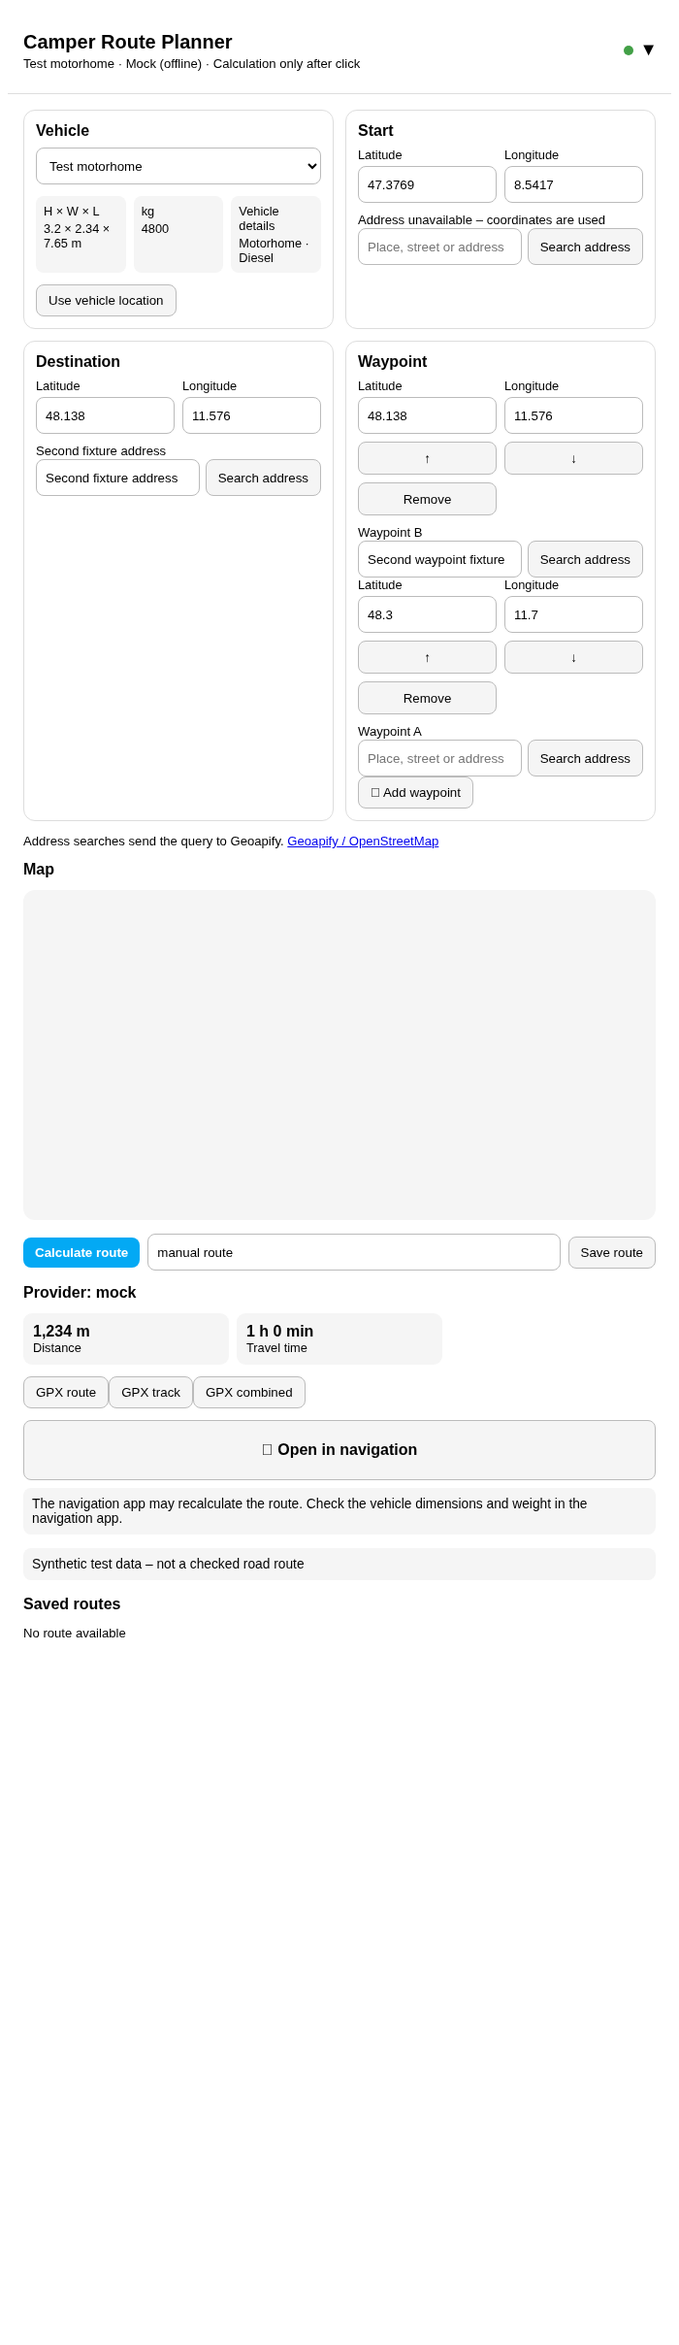
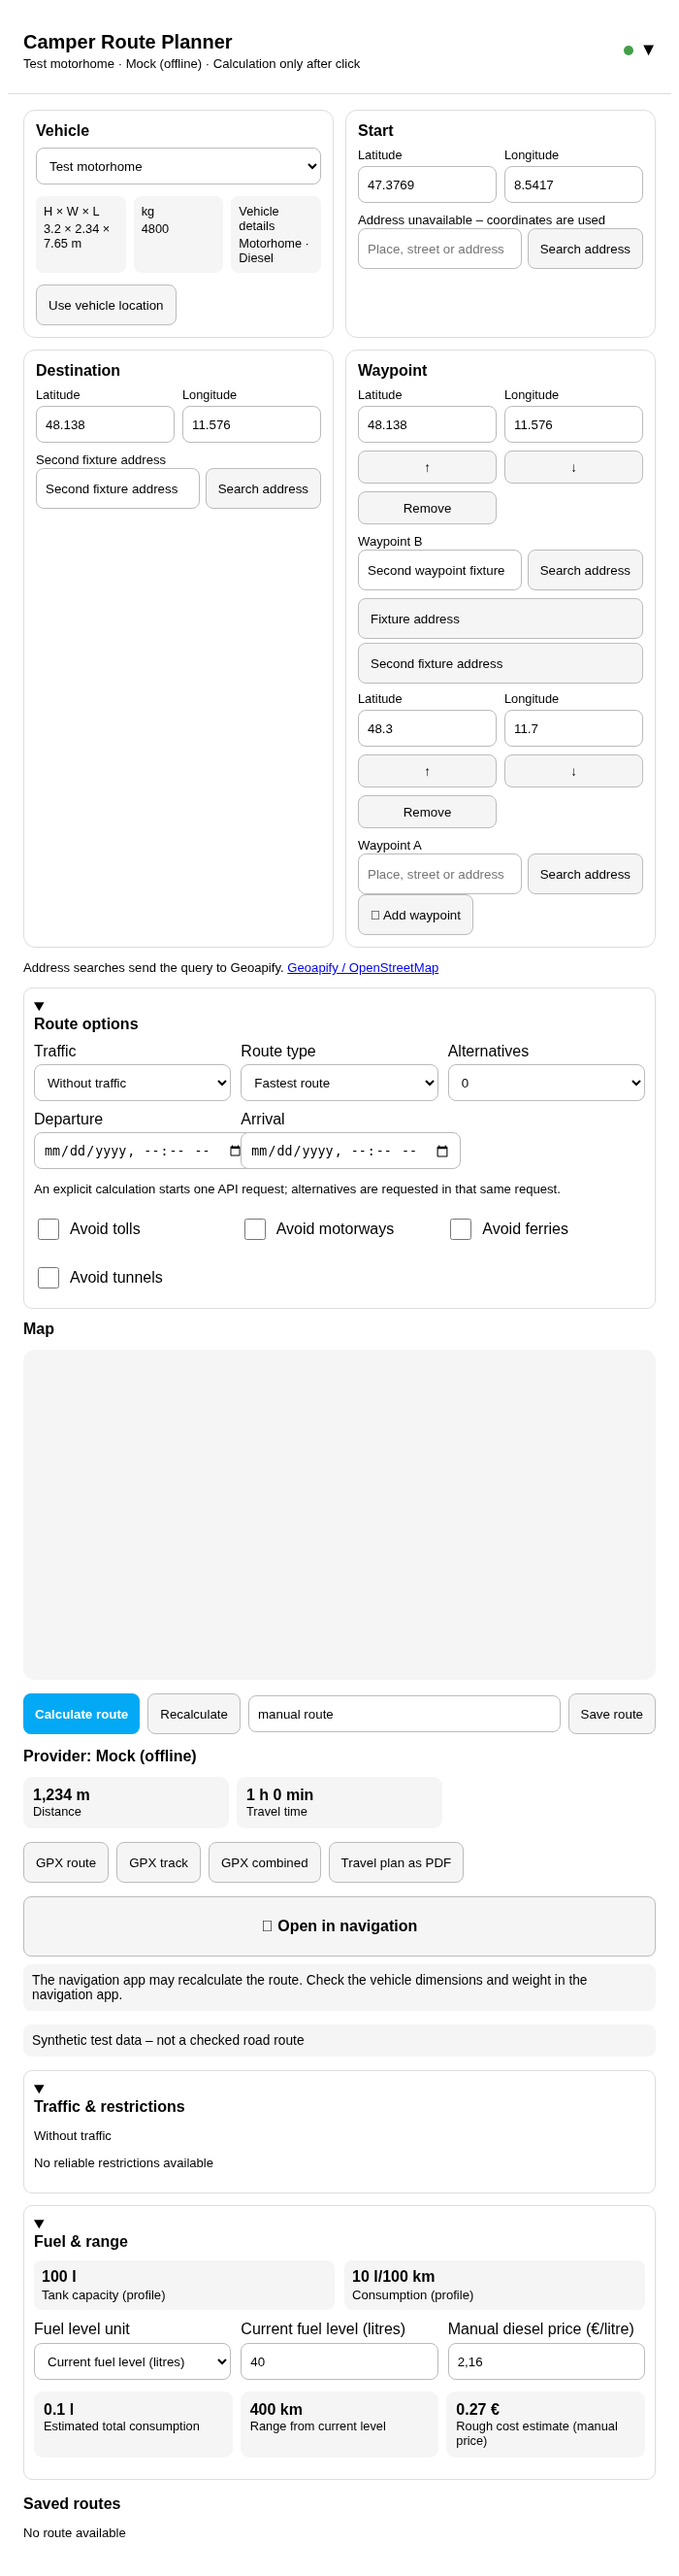
feat: localize border crossing display for beta.4

diff --git a/custom_components/camper_route_planner/frontend/camper-route-planner-card.js b/custom_components/camper_route_planner/frontend/camper-route-planner-card.js
@@ -1,4 +1,4 @@
-/* Camper Route Planner Card v0.1.3-beta.3; reproducible local bundle */
+/* Camper Route Planner Card v0.1.3-beta.4; reproducible local bundle */
 (() => {
   var __create = Object.create;
   var __defProp = Object.defineProperty;
@@ -14134,6 +14134,10 @@
   TRANSLATIONS.en.tollSourceApiV2 = "Source: NaKordoni API v2 \u2013 separate toll estimate, not binding.";
   TRANSLATIONS.en.tollSourceApiV3 = "Source: NaKordoni API v3";
   TRANSLATIONS.en.tollV3IncompleteNote = "The route was calculated with API v3; its toll data is incomplete. An optional v2 estimate remains separate and may differ.";
+  TRANSLATIONS.de.borderConfirmed = "Konkreter Grenz\xFCbergang erkannt";
+  TRANSLATIONS.de.borderDetected = "Grenz\xFCbertritt erkannt";
+  TRANSLATIONS.en.borderConfirmed = "Specific border crossing identified";
+  TRANSLATIONS.en.borderDetected = "Border crossing detected";
   function languageOf(hass) {
     const language = hass?.locale?.language || hass?.language || "en";
     return String(language).toLowerCase().startsWith("de") ? "de" : "en";
@@ -31189,19 +31193,20 @@ svg.leaflet-image-layer.leaflet-interactive path {
     } catch (_error) {
     }
   }
-  function renderBorderCrossings(result, translate2) {
+  function renderBorderCrossings(result, translate2, language = "en") {
     const crossings = result?.metadata?.border_crossings;
     if (!Array.isArray(crossings)) return "";
     if (!crossings.length && result?.metadata?.border_state === "unordered_international") return `<section class="route-details border-crossings"><h3>${translate2("borderCrossings")}</h3><p class="subtle">${translate2("borderInternationalAmbiguous")}</p></section>`;
     const rows = crossings.length ? crossings.map((crossing) => {
-      const direction = [crossing.from_country, crossing.to_country].filter(Boolean).join(" \u2192 ") || "\u2014";
+      const direction = [crossing.from_country, crossing.to_country].filter(Boolean).map((country) => tollCountryName(country, language)).join(" \u2192 ") || translate2("unknown");
       const wait = crossing.wait_min == null ? translate2("borderNoWait") : `${Math.round(Number(crossing.wait_min))} min`;
       const side = Array.isArray(crossing.wait_sides) ? crossing.wait_sides[0] : null;
       const basis = side?.basis === "forecast" ? translate2("borderForecast") : side?.basis === "live" ? translate2("borderLive") : null;
-      const source = crossing.source_url ? `<a href="${escapeHtml(crossing.source_url)}" target="_blank" rel="noreferrer">${translate2("dataByNakordoni")}</a>` : translate2("dataByNakordoni");
-      const quality = side?.data_quality === "low" ? translate2("borderEstimate") : side?.data_quality || basis || "\u2014";
-      const inferred = crossing.inferred ? `<small>${translate2("borderInferred")}</small>` : "";
-      return `<article class="border-crossing"><b>${escapeHtml(direction)}</b>${crossing.name ? `<div>${translate2("borderName")}: ${escapeHtml(crossing.name)}</div>` : ""}<div><span>${translate2("borderWait")}: ${escapeHtml(wait)}</span>${basis ? ` \xB7 ${escapeHtml(basis)}` : ""}</div><small>${translate2("borderDataAt")}: ${escapeHtml(crossing.wait_at || "\u2014")} \xB7 ${translate2("borderQuality")}: ${escapeHtml(quality)} \xB7 ${translate2("borderSource")}: ${source}</small>${crossing.wait_notes?.length ? `<small>${escapeHtml(crossing.wait_notes.join(" "))}</small>` : ""}${inferred}</article>`;
+      const source = crossing.source_url ? `<a href="${escapeHtml(crossing.source_url)}" target="_blank" rel="noreferrer">${translate2("dataByNakordoni")}</a>` : "";
+      const quality = side?.data_quality === "low" ? translate2("borderEstimate") : side?.data_quality || basis || "";
+      const status = crossing.inferred || crossing.status === "country_sequence" ? translate2("borderInferred") : crossing.name || crossing.status === "confirmed" ? translate2("borderConfirmed") : translate2("borderDetected");
+      const detailFields = [crossing.wait_at ? `${translate2("borderDataAt")}: ${escapeHtml(crossing.wait_at)}` : "", quality ? `${translate2("borderQuality")}: ${escapeHtml(quality)}` : "", source ? `${translate2("borderSource")}: ${source}` : ""].filter(Boolean);
+      return `<article class="border-crossing"><b>${escapeHtml(direction)}</b><small>${escapeHtml(status)}</small>${crossing.name ? `<div>${translate2("borderName")}: ${escapeHtml(crossing.name)}</div>` : ""}<div><span>${translate2("borderWait")}: ${escapeHtml(wait)}</span>${basis ? ` \xB7 ${escapeHtml(basis)}` : ""}</div>${detailFields.length ? `<small>${detailFields.join(" \xB7 ")}</small>` : ""}${crossing.wait_notes?.length ? `<small>${escapeHtml(crossing.wait_notes.join(" "))}</small>` : ""}</article>`;
     }).join("") : `<p class="subtle">${translate2(result?.metadata?.border_state === "unordered_international" ? "borderInternationalAmbiguous" : "noBorderCrossings")}</p>`;
     return `<section class="route-details border-crossings"><h3>${translate2("borderCrossings")}</h3>${rows}</section>`;
   }
@@ -31983,7 +31988,7 @@ svg.leaflet-image-layer.leaflet-interactive path {
       if (result?.provider === "nakordoni_motorhome") {
         const resultPanel = this.shadowRoot.querySelector(".result");
         resultPanel?.insertAdjacentHTML("afterbegin", `<div class="notice beta-notice"><b>${translate2("motorhomeBeta")}</b><br>${translate2("motorhomeWarning")}<br><a href="${escapeHtml(result.attribution_url || "https://nakordoni.eu")}" target="_blank" rel="noreferrer">${translate2("dataByNakordoni")}</a></div>`);
-        resultPanel?.insertAdjacentHTML("beforeend", `${renderBorderCrossings(result, translate2)}${renderTollDetails(result, translate2, language)}`);
+        resultPanel?.insertAdjacentHTML("beforeend", `${renderBorderCrossings(result, translate2, language)}${renderTollDetails(result, translate2, language)}`);
         if (result.metadata?.api_version === "v3" && result.metadata?.tolls?.complete === false && !result.metadata?.toll_estimate_v2) {
           const button = document.createElement("button");
           button.type = "button";

diff --git a/frontend/dist/camper-route-planner-card.js b/frontend/dist/camper-route-planner-card.js
@@ -1,4 +1,4 @@
-/* Camper Route Planner Card v0.1.3-beta.3; reproducible local bundle */
+/* Camper Route Planner Card v0.1.3-beta.4; reproducible local bundle */
 (() => {
   var __create = Object.create;
   var __defProp = Object.defineProperty;
@@ -14134,6 +14134,10 @@
   TRANSLATIONS.en.tollSourceApiV2 = "Source: NaKordoni API v2 \u2013 separate toll estimate, not binding.";
   TRANSLATIONS.en.tollSourceApiV3 = "Source: NaKordoni API v3";
   TRANSLATIONS.en.tollV3IncompleteNote = "The route was calculated with API v3; its toll data is incomplete. An optional v2 estimate remains separate and may differ.";
+  TRANSLATIONS.de.borderConfirmed = "Konkreter Grenz\xFCbergang erkannt";
+  TRANSLATIONS.de.borderDetected = "Grenz\xFCbertritt erkannt";
+  TRANSLATIONS.en.borderConfirmed = "Specific border crossing identified";
+  TRANSLATIONS.en.borderDetected = "Border crossing detected";
   function languageOf(hass) {
     const language = hass?.locale?.language || hass?.language || "en";
     return String(language).toLowerCase().startsWith("de") ? "de" : "en";
@@ -31189,19 +31193,20 @@ svg.leaflet-image-layer.leaflet-interactive path {
     } catch (_error) {
     }
   }
-  function renderBorderCrossings(result, translate2) {
+  function renderBorderCrossings(result, translate2, language = "en") {
     const crossings = result?.metadata?.border_crossings;
     if (!Array.isArray(crossings)) return "";
     if (!crossings.length && result?.metadata?.border_state === "unordered_international") return `<section class="route-details border-crossings"><h3>${translate2("borderCrossings")}</h3><p class="subtle">${translate2("borderInternationalAmbiguous")}</p></section>`;
     const rows = crossings.length ? crossings.map((crossing) => {
-      const direction = [crossing.from_country, crossing.to_country].filter(Boolean).join(" \u2192 ") || "\u2014";
+      const direction = [crossing.from_country, crossing.to_country].filter(Boolean).map((country) => tollCountryName(country, language)).join(" \u2192 ") || translate2("unknown");
       const wait = crossing.wait_min == null ? translate2("borderNoWait") : `${Math.round(Number(crossing.wait_min))} min`;
       const side = Array.isArray(crossing.wait_sides) ? crossing.wait_sides[0] : null;
       const basis = side?.basis === "forecast" ? translate2("borderForecast") : side?.basis === "live" ? translate2("borderLive") : null;
-      const source = crossing.source_url ? `<a href="${escapeHtml(crossing.source_url)}" target="_blank" rel="noreferrer">${translate2("dataByNakordoni")}</a>` : translate2("dataByNakordoni");
-      const quality = side?.data_quality === "low" ? translate2("borderEstimate") : side?.data_quality || basis || "\u2014";
-      const inferred = crossing.inferred ? `<small>${translate2("borderInferred")}</small>` : "";
-      return `<article class="border-crossing"><b>${escapeHtml(direction)}</b>${crossing.name ? `<div>${translate2("borderName")}: ${escapeHtml(crossing.name)}</div>` : ""}<div><span>${translate2("borderWait")}: ${escapeHtml(wait)}</span>${basis ? ` \xB7 ${escapeHtml(basis)}` : ""}</div><small>${translate2("borderDataAt")}: ${escapeHtml(crossing.wait_at || "\u2014")} \xB7 ${translate2("borderQuality")}: ${escapeHtml(quality)} \xB7 ${translate2("borderSource")}: ${source}</small>${crossing.wait_notes?.length ? `<small>${escapeHtml(crossing.wait_notes.join(" "))}</small>` : ""}${inferred}</article>`;
+      const source = crossing.source_url ? `<a href="${escapeHtml(crossing.source_url)}" target="_blank" rel="noreferrer">${translate2("dataByNakordoni")}</a>` : "";
+      const quality = side?.data_quality === "low" ? translate2("borderEstimate") : side?.data_quality || basis || "";
+      const status = crossing.inferred || crossing.status === "country_sequence" ? translate2("borderInferred") : crossing.name || crossing.status === "confirmed" ? translate2("borderConfirmed") : translate2("borderDetected");
+      const detailFields = [crossing.wait_at ? `${translate2("borderDataAt")}: ${escapeHtml(crossing.wait_at)}` : "", quality ? `${translate2("borderQuality")}: ${escapeHtml(quality)}` : "", source ? `${translate2("borderSource")}: ${source}` : ""].filter(Boolean);
+      return `<article class="border-crossing"><b>${escapeHtml(direction)}</b><small>${escapeHtml(status)}</small>${crossing.name ? `<div>${translate2("borderName")}: ${escapeHtml(crossing.name)}</div>` : ""}<div><span>${translate2("borderWait")}: ${escapeHtml(wait)}</span>${basis ? ` \xB7 ${escapeHtml(basis)}` : ""}</div>${detailFields.length ? `<small>${detailFields.join(" \xB7 ")}</small>` : ""}${crossing.wait_notes?.length ? `<small>${escapeHtml(crossing.wait_notes.join(" "))}</small>` : ""}</article>`;
     }).join("") : `<p class="subtle">${translate2(result?.metadata?.border_state === "unordered_international" ? "borderInternationalAmbiguous" : "noBorderCrossings")}</p>`;
     return `<section class="route-details border-crossings"><h3>${translate2("borderCrossings")}</h3>${rows}</section>`;
   }
@@ -31983,7 +31988,7 @@ svg.leaflet-image-layer.leaflet-interactive path {
       if (result?.provider === "nakordoni_motorhome") {
         const resultPanel = this.shadowRoot.querySelector(".result");
         resultPanel?.insertAdjacentHTML("afterbegin", `<div class="notice beta-notice"><b>${translate2("motorhomeBeta")}</b><br>${translate2("motorhomeWarning")}<br><a href="${escapeHtml(result.attribution_url || "https://nakordoni.eu")}" target="_blank" rel="noreferrer">${translate2("dataByNakordoni")}</a></div>`);
-        resultPanel?.insertAdjacentHTML("beforeend", `${renderBorderCrossings(result, translate2)}${renderTollDetails(result, translate2, language)}`);
+        resultPanel?.insertAdjacentHTML("beforeend", `${renderBorderCrossings(result, translate2, language)}${renderTollDetails(result, translate2, language)}`);
         if (result.metadata?.api_version === "v3" && result.metadata?.tolls?.complete === false && !result.metadata?.toll_estimate_v2) {
           const button = document.createElement("button");
           button.type = "button";

diff --git a/frontend/src/camper-route-planner-card.js b/frontend/src/camper-route-planner-card.js
@@ -31,19 +31,20 @@ function writeFuelValues(entryId, profileId, values) {
 }
 
 
-function renderBorderCrossings(result, translate) {
+function renderBorderCrossings(result, translate, language = "en") {
   const crossings = result?.metadata?.border_crossings;
   if (!Array.isArray(crossings)) return "";
   if (!crossings.length && result?.metadata?.border_state === "unordered_international") return `<section class="route-details border-crossings"><h3>${translate("borderCrossings")}</h3><p class="subtle">${translate("borderInternationalAmbiguous")}</p></section>`;
   const rows = crossings.length ? crossings.map((crossing) => {
-    const direction = [crossing.from_country, crossing.to_country].filter(Boolean).join(" → ") || "—";
+    const direction = [crossing.from_country, crossing.to_country].filter(Boolean).map((country) => tollCountryName(country, language)).join(" → ") || translate("unknown");
     const wait = crossing.wait_min == null ? translate("borderNoWait") : `${Math.round(Number(crossing.wait_min))} min`;
     const side = Array.isArray(crossing.wait_sides) ? crossing.wait_sides[0] : null;
     const basis = side?.basis === "forecast" ? translate("borderForecast") : side?.basis === "live" ? translate("borderLive") : null;
-    const source = crossing.source_url ? `<a href="${escapeHtml(crossing.source_url)}" target="_blank" rel="noreferrer">${translate("dataByNakordoni")}</a>` : translate("dataByNakordoni");
-    const quality = side?.data_quality === "low" ? translate("borderEstimate") : (side?.data_quality || basis || "—");
-    const inferred = crossing.inferred ? `<small>${translate("borderInferred")}</small>` : "";
-    return `<article class="border-crossing"><b>${escapeHtml(direction)}</b>${crossing.name ? `<div>${translate("borderName")}: ${escapeHtml(crossing.name)}</div>` : ""}<div><span>${translate("borderWait")}: ${escapeHtml(wait)}</span>${basis ? ` · ${escapeHtml(basis)}` : ""}</div><small>${translate("borderDataAt")}: ${escapeHtml(crossing.wait_at || "—")} · ${translate("borderQuality")}: ${escapeHtml(quality)} · ${translate("borderSource")}: ${source}</small>${crossing.wait_notes?.length ? `<small>${escapeHtml(crossing.wait_notes.join(" "))}</small>` : ""}${inferred}</article>`;
+    const source = crossing.source_url ? `<a href="${escapeHtml(crossing.source_url)}" target="_blank" rel="noreferrer">${translate("dataByNakordoni")}</a>` : "";
+    const quality = side?.data_quality === "low" ? translate("borderEstimate") : (side?.data_quality || basis || "");
+    const status = crossing.inferred || crossing.status === "country_sequence" ? translate("borderInferred") : crossing.name || crossing.status === "confirmed" ? translate("borderConfirmed") : translate("borderDetected");
+    const detailFields = [crossing.wait_at ? `${translate("borderDataAt")}: ${escapeHtml(crossing.wait_at)}` : "", quality ? `${translate("borderQuality")}: ${escapeHtml(quality)}` : "", source ? `${translate("borderSource")}: ${source}` : ""].filter(Boolean);
+    return `<article class="border-crossing"><b>${escapeHtml(direction)}</b><small>${escapeHtml(status)}</small>${crossing.name ? `<div>${translate("borderName")}: ${escapeHtml(crossing.name)}</div>` : ""}<div><span>${translate("borderWait")}: ${escapeHtml(wait)}</span>${basis ? ` · ${escapeHtml(basis)}` : ""}</div>${detailFields.length ? `<small>${detailFields.join(" · ")}</small>` : ""}${crossing.wait_notes?.length ? `<small>${escapeHtml(crossing.wait_notes.join(" "))}</small>` : ""}</article>`;
   }).join("") : `<p class="subtle">${translate(result?.metadata?.border_state === "unordered_international" ? "borderInternationalAmbiguous" : "noBorderCrossings")}</p>`;
   return `<section class="route-details border-crossings"><h3>${translate("borderCrossings")}</h3>${rows}</section>`;
 }
@@ -732,7 +733,7 @@ export class CamperRoutePlannerCard extends HTMLElement {
     if (result?.provider === "nakordoni_motorhome") {
       const resultPanel = this.shadowRoot.querySelector(".result");
       resultPanel?.insertAdjacentHTML("afterbegin", `<div class="notice beta-notice"><b>${translate("motorhomeBeta")}</b><br>${translate("motorhomeWarning")}<br><a href="${escapeHtml(result.attribution_url || "https://nakordoni.eu")}" target="_blank" rel="noreferrer">${translate("dataByNakordoni")}</a></div>`);
-      resultPanel?.insertAdjacentHTML("beforeend", `${renderBorderCrossings(result, translate)}${renderTollDetails(result, translate, language)}`);
+      resultPanel?.insertAdjacentHTML("beforeend", `${renderBorderCrossings(result, translate, language)}${renderTollDetails(result, translate, language)}`);
       if (result.metadata?.api_version === "v3" && result.metadata?.tolls?.complete === false && !result.metadata?.toll_estimate_v2) {
         const button = document.createElement("button");
         button.type = "button";

diff --git a/frontend/src/localization.js b/frontend/src/localization.js
@@ -45,6 +45,10 @@ TRANSLATIONS.en.providerNetworkAverage = "Average network price; the actual sect
 TRANSLATIONS.en.tollSourceApiV2 = "Source: NaKordoni API v2 – separate toll estimate, not binding.";
 TRANSLATIONS.en.tollSourceApiV3 = "Source: NaKordoni API v3";
 TRANSLATIONS.en.tollV3IncompleteNote = "The route was calculated with API v3; its toll data is incomplete. An optional v2 estimate remains separate and may differ.";
+TRANSLATIONS.de.borderConfirmed = "Konkreter Grenzübergang erkannt";
+TRANSLATIONS.de.borderDetected = "Grenzübertritt erkannt";
+TRANSLATIONS.en.borderConfirmed = "Specific border crossing identified";
+TRANSLATIONS.en.borderDetected = "Border crossing detected";
 
 export function languageOf(hass) {
   const language = hass?.locale?.language || hass?.language || "en";

diff --git a/tests/test_phase2c_ha.py b/tests/test_phase2c_ha.py
@@ -157,7 +157,7 @@ async def test_frontend_static_path_resource_and_reload_cleanup(
     response = await client.get(FRONTEND_URL)
     assert response.status == 200
     body = await response.text()
-    assert "Camper Route Planner Card v0.1.3-beta.3" in body
+    assert "Camper Route Planner Card v0.1.3-beta.4" in body
     assert 'customElements.define("camper-route-planner-card"' in body
     assert 'return { entry_id: "" }' in body
     assert 'card.type === "camper-route-planner-card"' in body
@@ -180,7 +180,7 @@ async def test_frontend_static_path_resource_and_reload_cleanup(
     assert sum(item["url"] == FRONTEND_RESOURCE_URL for item in resources.async_items()) == 1
     response = await client.get(FRONTEND_URL)
     assert response.status == 200
-    assert "Camper Route Planner Card v0.1.3-beta.3" in await response.text()
+    assert "Camper Route Planner Card v0.1.3-beta.4" in await response.text()
 
 
 @pytest.mark.asyncio

diff --git a/custom_components/camper_route_planner/const.py b/custom_components/camper_route_planner/const.py
@@ -6,7 +6,7 @@ from typing import Final
 
 DOMAIN: Final = "camper_route_planner"
 NAME: Final = "Camper Route Planner"
-VERSION: Final = "0.1.3-beta.3"
+VERSION: Final = "0.1.3-beta.4"
 
 CONF_PROVIDER: Final = "provider"
 CONF_API_KEY: Final = "api_key"

diff --git a/docs/releases/v0.1.3-beta.4.md b/docs/releases/v0.1.3-beta.4.md
@@ -1,0 +1,44 @@
+# Camper Route Planner v0.1.3-beta.4
+
+## Deutsch
+
+Beta.4 verbessert die Darstellung von Grenzübergängen:
+
+- ISO-Ländercodes werden in der Oberfläche lokalisiert ausgeschrieben.
+- Erkannte Länderübergänge und konkrete, vom Provider gelieferte Übergänge
+  werden getrennt gekennzeichnet.
+- Fehlende Wartezeiten werden als „Keine aktuellen Wartezeitdaten verfügbar“
+  angezeigt.
+- Leere Datenstand-, Qualitäts- und Quellenfelder werden nicht mehr als
+  Platzhalter dargestellt.
+- Providerquellen werden nur bei tatsächlich vorhandener Quelle verlinkt.
+- Interne ISO-Codes und Providerantworten bleiben unverändert.
+
+Der deutsche Geschwindigkeitstest für ein 4,8-t-Wohnmobil ohne Anhänger wurde
+als manueller Praxistest vorbereitet, aber nicht ohne autorisierten Zugriff
+ausgeführt. Es wurde keine ETA künstlich korrigiert.
+
+Die bestehende native HA-Diagnose, die v2-/v3-Trennung, Mautdaten und
+gespeicherte Routen bleiben unverändert. Stable `v0.1.2` bleibt die empfohlene
+Produktivversion.
+
+## English
+
+Beta.4 improves border-crossing presentation:
+
+- ISO country codes are rendered as localized country names.
+- Detected country transitions and concrete provider-returned crossings are
+  labelled separately.
+- Missing wait times are shown as “No current wait-time data available”.
+- Empty timestamp, quality, and source fields are omitted instead of rendered
+  as placeholders.
+- Provider sources are linked only when an actual source is present.
+- Internal ISO codes and provider responses remain unchanged.
+
+The German speed test for a 4.8-tonne motorhome without a trailer was prepared
+as a manual practical test but was not executed without authorized access. No
+ETA correction was applied.
+
+The existing native HA diagnostics, v2/v3 separation, toll data, and saved
+routes remain unchanged. Stable `v0.1.2` remains the recommended production
+version.

diff --git a/README.en.md b/README.en.md
@@ -15,7 +15,9 @@ profiles, an interactive map, saved routes, and GPX export.
 >
 > Stable `v0.1.2` contains the verified Beta.3–Beta.5 corrections.
 >
-> **In development:** `v0.1.3-beta.3` adds volatile native HA diagnostics for
+> **In development:** `v0.1.3-beta.4` adds localized border crossings,
+> a clear distinction between detected country transitions and identified
+> crossings, and volatile native HA diagnostics for
 > the actually executed routing responses. `v0.1.3-beta.2` adds an explicitly labelled separate
 > API v2 toll estimate for incomplete v3 toll data and safe routing
 > diagnostics. Stable remains the production recommendation.

diff --git a/README.md b/README.md
@@ -18,7 +18,9 @@ und GPX-Export.
 >
 > Die stabile `v0.1.2` enthält die geprüften Beta.3–Beta.5-Korrekturen.
 >
-> **Entwicklung:** `v0.1.3-beta.3` ergänzt eine flüchtige, native HA-Diagnose
+> **Entwicklung:** `v0.1.3-beta.4` ergänzt lokalisierte Grenzübergänge,
+> eine klarere Unterscheidung zwischen erkanntem Grenzübertritt und konkretem
+> Übergang sowie eine flüchtige, native HA-Diagnose
 > für die tatsächlich ausgeführten Routingantworten. `v0.1.3-beta.2` ergänzt
 > eine eindeutig gekennzeichnete,
 > getrennte API-v2-Mautschätzung für unvollständige v3-Mautdaten sowie sichere
